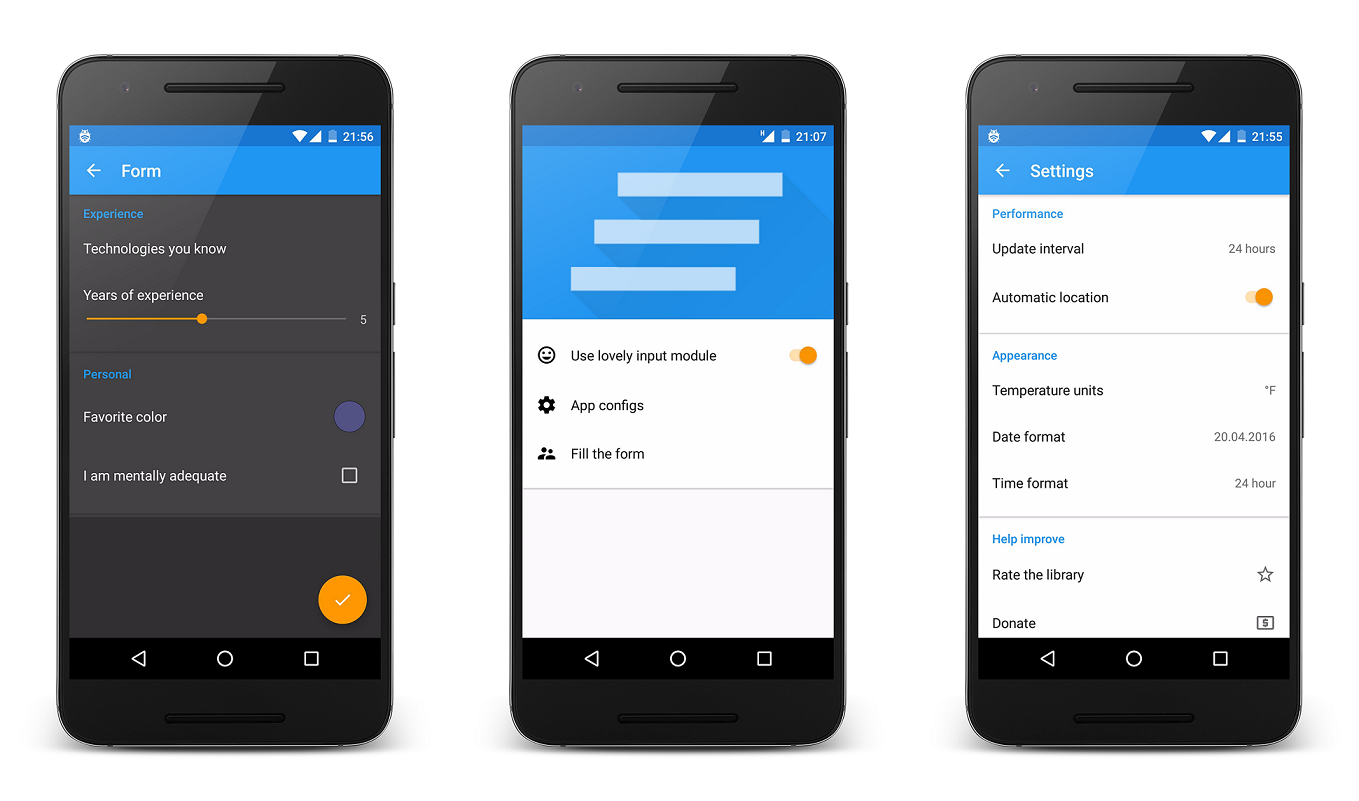
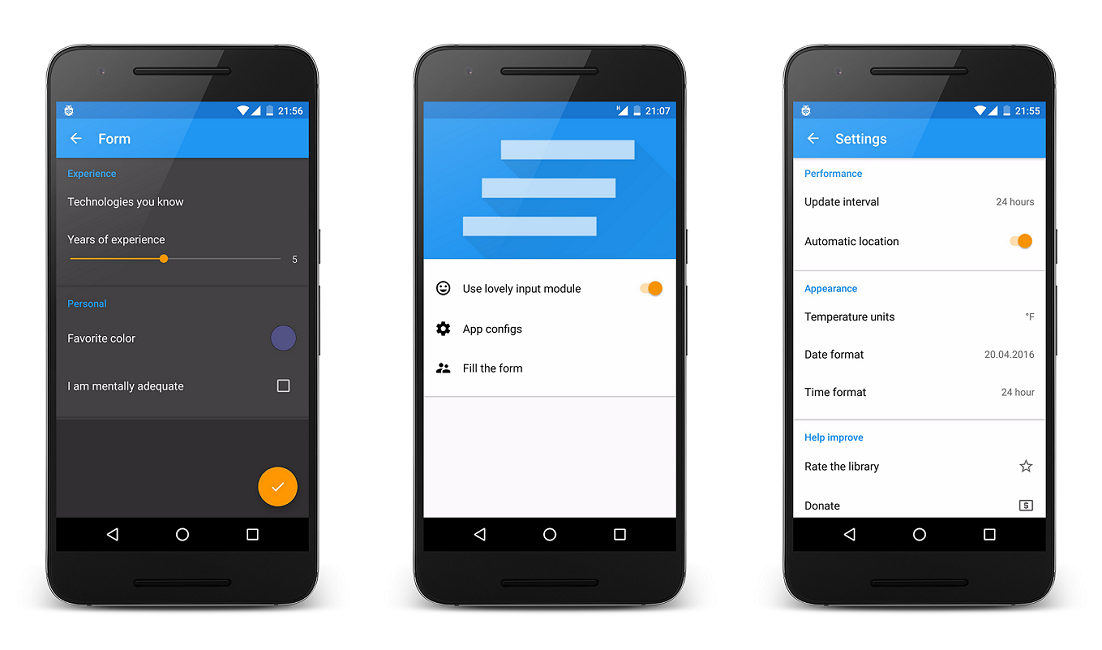
updated README (lovely info) and decreased image size

diff --git a/README.md b/README.md
@@ -2,15 +2,19 @@
 
 This library is a set of VIEWS (not Preferences) and is aimed to solve this problems:
 * Preferences look ugly on pre-lollipop.
-* Preferences are not flexible. It can be problematic to embed them to another screen (especially for fragment-haters). 
+* Preferences are not flexible. For example, it can be problematic to embed them to another screen (especially for fragment-haters).
 * Preferences don't allow you to show custom selection dialogs.
 
 ![Screenshots](https://raw.githubusercontent.com/yarolegovich/materialpreferences/master/art/screenshots.png)
 
 ## Gradle 
-Add this into your dependencies block.
+Add this into your dependencies block:
 ```
 compile 'com.yarolegovich:mp:1.0.0' 
+```
+For [LovelyInput] (#lovelyinput) you will also need this:
+```
+compile 'com.yarolegovich:lovelyinput:1.0.1'
 ```
 
 ## Wiki 
@@ -21,10 +25,12 @@ You can also [download APK] (https://github.com/yarolegovich/MaterialPreferences
 
 1. [Types of preferences] (#types-of-preferences)
 2. [UserInputModule] (#userinputmodule)  
-Allows you to show any dialogs (or event not dialogs) you want, when some preferencesare clicked.
+  Allows you to show any dialogs (or event not dialogs) you want, when some preferencesare clicked.
 3. [StorageModule] (#storagemodule)  
- Allows you to save/retrieve values to/from any data source.
-
+  Allows you to save/retrieve values to/from any data source.
+4. [LovelyInput] (#lovelyinput)  
+  Implementation of UserInputModule based on [LovelyDialog] (https://github.com/yarolegovich/LovelyDialog) library.
+ 
 ### Types of preferences
 There are 2 ViewGroup classes: 
 * [MaterialPreferenceScreen] (#materialpreferencescreen)
@@ -207,7 +213,21 @@ If you want to store data inside preferences, but not default - you can use:
 new SharedPrefsStorageFactory("filename")
 ````
 
-###License
+### LovelyInput
+Implementation of [UserInputModule] (#userinputmodule) combined with my another library - [LovelyDialog] (https://github.com/yarolegovich/LovelyDialog). 
+For information on how to use it - [check sample] (https://github.com/yarolegovich/MaterialPreferences/blob/master/sample/src/main/java/com/yarolegovich/materialprefsample/MainActivity.java#L63).
+You can use not only 
+````java
+setKeyIconMappings(Set<String, Integer> mappings);
+````
+but also 
+````java
+setKeyTitleMappings(Set<String, String> mappings);
+setKeyMessageMappings(Set<String, String> mappings);
+````
+[Source code] (https://github.com/yarolegovich/MaterialPreferences/tree/master/lovelyinput/src/main/java/com/yarolegovich/lovelyuserinput) of module can serve you as an example of custom UserInputModule. 
+
+### License
 ```
 Copyright 2016 Yaroslav Shevchuk
 
